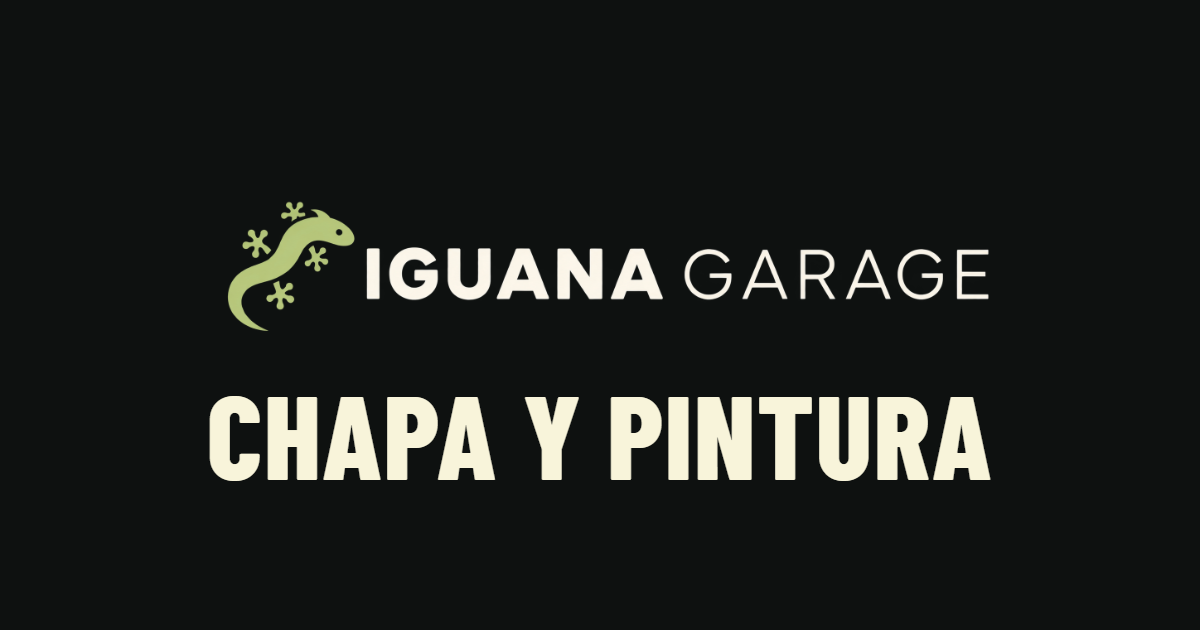
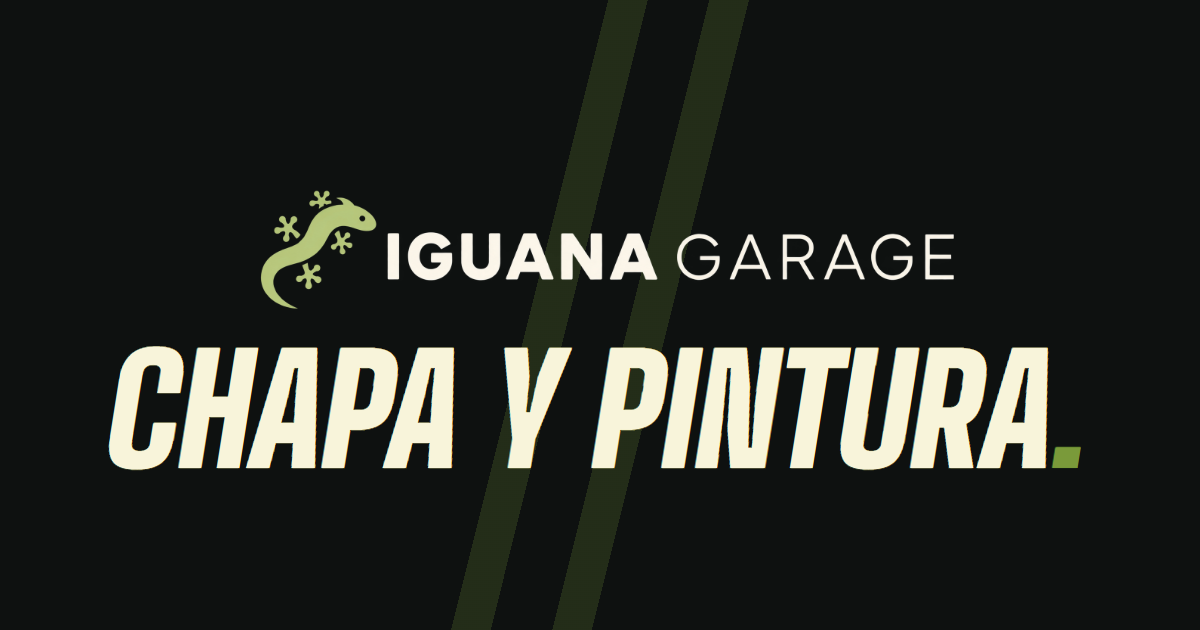
fix(home): abanico abierto entero con los nombres legibles, indicador de scroll e imagen para compartir con la tipografía nueva
Arco ancho compensado con cos() y cartas dimensionadas por altura; sin movimiento el abanico va en el flujo. Sustituye la pista de texto por un indicador sin texto (no aparece con movimiento reducido). Regenera la imagen Open Graph con Big Shoulders y actualiza DESIGN.md.

Changed region(s): [[0.0925, 0.0, 0.925, 1.0]]

diff --git a/src/app/portfolio.css b/src/app/portfolio.css
@@ -50,9 +50,6 @@ html:has(.portfolio-page) { background: #0e1110; scrollbar-color: #2a2d2b #0e111
 .pub-more { display: inline-flex; align-items: center; gap: 10px; min-height: 48px; padding: 0 24px; border: 0; color: var(--pub-bone); font: italic 600 16px var(--pub-text); background: color-mix(in srgb, var(--pub-metal) 88%, transparent); clip-path: polygon(10px 0, 100% 0, calc(100% - 10px) 100%, 0 100%); cursor: pointer; transition: background .2s; }
 .pub-more:hover { background: #424643; }
 .pub-more:focus-visible { outline: none; box-shadow: inset 0 0 0 2px var(--pub-bone); }
-/* Texto nuevo pendiente de aprobar */
-.pub-prov { text-decoration: underline dotted 1px; text-underline-offset: .18em; text-decoration-color: color-mix(in srgb, currentColor 50%, transparent); }
-.pub-prov-mark { margin-left: .4em; font: normal 500 11px / 1 var(--pub-text); vertical-align: super; color: var(--pub-muted); white-space: nowrap; }
 
 /* Cabecera: logo oficial (se recorta el margen transparente del PNG, nunca el arte). */
 .pub-header { position: absolute; z-index: 30; inset: 0 0 auto; display: flex; justify-content: space-between; align-items: center; gap: 12px; padding: 18px var(--side); }
@@ -63,7 +60,8 @@ html:has(.portfolio-page) { background: #0e1110; scrollbar-color: #2a2d2b #0e111
 
 /* ── Portada: titular centrado y abanico de cartas que nace del borde inferior ── */
 .pub-hero { position: relative; }
-.pub-hero-stage { position: relative; height: 100svh; min-height: 620px; overflow: hidden; display: grid; justify-items: center; align-content: start; padding: max(104px, 14svh) var(--side) 0; text-align: center; }
+/* Sin movimiento la portada crece con su contenido: el abanico va en el flujo, debajo del titular, y nunca lo solapa. */
+.pub-hero-stage { position: relative; min-height: max(100svh, 620px); overflow: hidden; display: grid; grid-template-rows: auto 1fr; justify-items: center; align-content: start; padding: max(104px, 14svh) var(--side) 0; text-align: center; }
 .pub-hero-stage:not(:has(.pub-fan)) { align-content: center; padding-top: 0; }
 .pub-livery { position: absolute; left: 50%; top: 0; bottom: 0; width: 150px; translate: -50% 0; transform: skewX(-14deg); transform-origin: 50% 100%; pointer-events: none; opacity: .2;
   background: linear-gradient(90deg, transparent 0 18%, var(--pub-green) 18% 36%, transparent 36% 64%, var(--pub-green) 64% 82%, transparent 82%); }
@@ -73,15 +71,22 @@ html:has(.portfolio-page) { background: #0e1110; scrollbar-color: #2a2d2b #0e111
 .pub-line { display: block; overflow: hidden; padding: .02em .06em .03em; margin-bottom: -.05em; white-space: nowrap; }
 .pub-line > span { display: block; }
 .pub-hero-row { display: grid; justify-items: center; gap: 12px; margin-top: 26px; }
-.pub-hint { color: var(--pub-muted); font-size: 15px; font-style: italic; visibility: hidden; }
-.pub-fan { --cw: 52vw; --swing: 62deg; --open: .18; position: absolute; left: 50%; bottom: 0; width: 0; height: 0; z-index: 1; }
-.pub-card { position: absolute; left: calc(var(--cw) / -2); bottom: 5svh; width: var(--cw); display: block; padding: 5px 5px 0; border-radius: 9px; background: var(--pub-bone); color: var(--pub-carbon);
-  transform-origin: 50% 210%; rotate: calc(var(--k) * (22deg + var(--open) * var(--swing))); box-shadow: 0 20px 36px -16px #000f; transition: translate .35s var(--ease-out); }
+/* Abanico: arco ancho (pivote a 3,2 anchos de carta bajo cada una) compensado con cos() para que todas las cartas
+   apoyen en la misma línea: al abrirse, las exteriores no se hunden y los nombres siguen a la vista. La caja reserva
+   la carta, la caída de su esquina al girar (≈ .36 anchos) y un margen. El ancho de carta sale de la altura disponible. */
+.pub-fan { --cw: min(62vw, 30svh); --spread: 80deg; --open: 1; --r: calc(var(--cw) * 3.2); position: relative; z-index: 1; align-self: end; width: calc(100% + 2 * var(--side)); height: calc(var(--cw) * 1.62 + 76px); margin-top: 28px; }
+.pub-card { --a: calc(var(--k) * (24deg + var(--open) * (var(--spread) - 24deg)));
+  position: absolute; left: calc(50% - var(--cw) / 2); bottom: calc(var(--cw) * .36 + 16px); width: var(--cw); display: block; padding: 5px 5px 0; border-radius: 9px; background: var(--pub-bone); color: var(--pub-carbon);
+  transform-origin: 50% calc(100% + var(--r)); rotate: var(--a); translate: 0 calc(var(--r) * (cos(var(--a)) - 1)); box-shadow: 0 20px 36px -16px #000f; transition: transform .35s var(--ease-out); }
+/* Indicador de scroll: pista fina inclinada como la librea con una cuenta verde que baja. Sin texto ni foco; solo
+   con movimiento (lo muestra [data-motion="live"]) y se desvanece en cuanto empieza a abrirse el abanico. */
+.pub-cue { display: none; position: absolute; z-index: 2; right: var(--side); top: 50%; width: 3px; height: 72px; margin-top: -36px; overflow: hidden; background: #f8f4da38; transform: skewX(-14deg); pointer-events: none; }
+.pub-cue > span { display: block; width: 100%; height: 22px; background: var(--pub-green); }
 .pub-card-photo { position: relative; display: block; aspect-ratio: 4 / 5; overflow: hidden; border-radius: 5px; background: var(--pub-metal); }
 .pub-card-label { display: block; padding: 7px 4px 26px; font: 800 17px / 1 var(--pub-display); font-variation-settings: "opsz" 72; text-transform: uppercase; text-align: left; white-space: nowrap; overflow: hidden; text-overflow: ellipsis; }
 .pub-card-label::before { content: ""; display: inline-block; width: 18px; height: 9px; margin-right: 7px; background: var(--pub-green); transform: skewX(-20deg); }
-.pub-card:focus-visible { outline-offset: 3px; translate: 0 -10%; z-index: 20; }
-@media (hover: hover) { .pub-card:hover { translate: 0 -10%; } }
+.pub-card:focus-visible { outline-offset: 3px; transform: translateY(-8%); z-index: 20; }
+@media (hover: hover) { .pub-card:hover { transform: translateY(-8%); } }
 
 /* ── Antes y Después: dos pantallas completas, una tras otra ── */
 .pub-ba-stage { position: relative; overflow: hidden; container-type: inline-size; }
@@ -142,16 +147,13 @@ body:has(dialog.pub-viewer[open]) .pub-fab { visibility: hidden; }
 
 @media (min-width: 700px) {
   .pub-hero h1 { font-size: 19vw; }
-  .pub-fan { --cw: 36vw; --swing: 92deg; }
-  .pub-card { bottom: 3svh; transform-origin: 50% 230%; }
+  .pub-fan { --cw: min(36vw, 26svh); --spread: 92deg; }
   .pub-wall, .pub-col { gap: 20px; }
 }
 @media (min-width: 1100px) {
   .pub-hero-stage { padding-top: 13svh; }
   .pub-hero h1 { font-size: min(15.5vw, 29svh); }
-  .pub-hint { font-size: 16px; }
-  .pub-fan { --cw: min(250px, 28vw); }
-  .pub-card { bottom: -4svh; }
+  .pub-fan { --cw: min(250px, 24svh); }
   .pub-card-label { font-size: 20px; padding-bottom: 30px; }
   .pub-ba-label { bottom: 140px; }
   .pub-work { grid-template-columns: minmax(0, 5fr) minmax(0, 7fr); gap: 7vw; align-items: start; }
@@ -176,11 +178,15 @@ body:has(dialog.pub-viewer[open]) .pub-fab { visibility: hidden; }
 @keyframes pub-livery { from { transform: skewX(-14deg) scaleY(0); } }
 
 /* ── Movimiento ligado al scroll ([data-motion="live"], lo pone HomeMotion) ── */
-.portfolio-page[data-motion="live"] .pub-hint { visibility: visible; }
 .portfolio-page[data-motion="live"] .pub-hero { height: 165svh; }
-.portfolio-page[data-motion="live"] .pub-hero-stage { position: sticky; top: 0; }
+.portfolio-page[data-motion="live"] .pub-hero-stage { position: sticky; top: 0; height: 100svh; min-height: 0; }
 .portfolio-page[data-motion="live"] .pub-hero-copy { transform: translateY(calc(var(--p, 0) * -9svh)) scale(calc(1 - var(--p, 0) * .2)); opacity: calc(1 - var(--p, 0) * .35); }
-.portfolio-page[data-motion="live"] .pub-fan { --open: var(--p, 0); transform: translateY(calc((1 - var(--p, 0)) * 7svh)); }
+.portfolio-page[data-motion="live"] .pub-cue { display: block; opacity: calc(1 - var(--p, 0) * 6); }
+.portfolio-page[data-motion="live"] .pub-cue > span { animation: pub-cue 1.8s cubic-bezier(.6, 0, .3, 1) .6s infinite; }
+@keyframes pub-cue { from { transform: translateY(-22px); } to { transform: translateY(72px); } }
+@media (prefers-reduced-motion: reduce) { .pub-cue { display: none !important; } }
+/* Con movimiento la portada mide una pantalla: el abanico se ancla abajo, sube desde fuera y se abre; abierto (--p = 1) cabe entero. */
+.portfolio-page[data-motion="live"] .pub-fan { position: absolute; left: 0; right: 0; bottom: 0; width: auto; margin: 0; --open: var(--p, 0); transform: translateY(calc((1 - var(--p, 0)) * 22svh)); }
 .portfolio-page[data-motion="live"] .pub-livery { transform: skewX(calc(-14deg - var(--p, 0) * 18deg)) scaleX(calc(1 + var(--p, 0) * 2.4)); }
 
 .portfolio-page[data-motion="live"] .pub-ba { height: 330svh; }

diff --git a/e2e/public-home.spec.ts b/e2e/public-home.spec.ts
@@ -42,6 +42,7 @@ test("Antes/Después: dos pantallas rotuladas con la pareja elegida y «Ver foto
 test("movimiento: la portada y el Antes/Después avanzan con el scroll y cada foto acaba destapada", async ({ page }) => {
   await page.goto("/");
   await expect(live(page)).toHaveCount(1);
+  await expect(page.locator(".pub-cue")).toBeVisible();
   const open = () => page.locator(".pub-hero").evaluate((hero) => Number(getComputedStyle(hero).getPropertyValue("--p") || 0));
   await page.evaluate(() => scrollTo({ top: innerHeight * 0.6, behavior: "instant" }));
   await expect.poll(open).toBeGreaterThan(0.3);
@@ -65,7 +66,7 @@ test.describe("con movimiento reducido", () => {
     await expect(live(page)).toHaveCount(0);
     const running = await page.evaluate(() => document.getAnimations().filter((animation) => animation.playState === "running").length);
     expect(running).toBe(0);
-    await expect(page.locator(".pub-hint")).toBeHidden(); // la pista del abanico solo tiene sentido con movimiento
+    await expect(page.locator(".pub-cue")).toBeHidden(); // el indicador de scroll solo existe con movimiento
     const pair = page.locator(".pub-ba-slide");
     if (await pair.count()) {
       const [before, after] = await pair.evaluateAll((slides) => slides.map((slide) => slide.getBoundingClientRect().top + scrollY));

diff --git a/src/app/page.tsx b/src/app/page.tsx
@@ -11,7 +11,6 @@ import { BeforeAfter } from "@/features/portfolio/before-after";
 import { HeroFan } from "@/features/portfolio/fan";
 import { FloatingContact } from "@/features/portfolio/floating-contact";
 import { HomeMotion } from "@/features/portfolio/home-motion";
-import { Provisional } from "@/features/portfolio/provisional";
 import logo from "../../assets/brand/iguana-garage-logo-horizontal.png";
 import "./portfolio.css";
 
@@ -53,11 +52,9 @@ export default async function Home({ searchParams }: { searchParams: Promise<{ p
           <span className="pub-livery" aria-hidden="true" />
           <div className="pub-hero-copy" data-fab-hide="">
             <h1 id="hero-title"><span className="pub-line"><span>Chapa y</span></span> <span className="pub-line"><span>pintura<span className="pub-dot">.</span></span></span></h1>
-            <div className="pub-hero-row">
-              <ContactLink contact={contact} />
-              {jobs.length > 0 && <p className="pub-hint"><Provisional>Baja y se abre el abanico.</Provisional></p>}
-            </div>
+            <div className="pub-hero-row"><ContactLink contact={contact} /></div>
           </div>
+          {jobs.length > 0 && <span className="pub-cue" aria-hidden="true"><span /></span>}
           <HeroFan jobs={jobs} />
         </div>
       </section>

diff --git a/src/features/portfolio/home-sections.test.tsx b/src/features/portfolio/home-sections.test.tsx
@@ -5,7 +5,6 @@ import type { PublicJob } from "./contract";
 import { BeforeAfter } from "./before-after";
 import { HeroFan } from "./fan";
 import { FloatingContact } from "./floating-contact";
-import { Provisional } from "./provisional";
 
 const id = (n: number, k = 0) => `${String(n).repeat(8)}-${String(k).repeat(4)}-4111-8111-111111111111`;
 const job = (n: number, photos: number): PublicJob => ({ id: id(n), name: `Trabajo ${n}`, job_date: "2026-01-15", description: null,
@@ -54,8 +53,4 @@ describe("botón flotante de WhatsApp", () => {
     expect(markup).toContain('aria-label="Escríbenos por WhatsApp (abre WhatsApp en otra pestaña)"');
     expect(markup).toContain('<svg'); expect(markup).toContain('aria-hidden="true"');
   });
-});
-
-it("los textos pendientes de aprobar se marcan como provisionales", () => {
-  expect(html(createElement(Provisional, null, "Texto nuevo"))).toBe('<span class="pub-prov">Texto nuevo<span class="pub-prov-mark" aria-hidden="true">[texto provisional]</span></span>');
 });

diff --git a/DESIGN.md b/DESIGN.md
@@ -29,7 +29,7 @@ Home «de competición», elegida por el propietario con un test de gusto: sensa
 
 - **Marca:** assets oficiales y los cuatro colores base (más derivados: Iguana claro `#8FB04A` para hover y un Carbon más profundo `#080A09` bajo las fotos); sin azul ni tema claro.
 - **Fotografía real:** solo las fotos publicadas del contrato público. Son fotos de móvil hechas en el taller (casi todas verticales, calidad y encuadre variables). Nada de stock, IA ni imágenes de relleno. Se recortan con `cover` y punto focal y se igualan con un etalonaje común (`saturate(.8) contrast(1.08) brightness(.96)`); el visor las muestra tal cual.
-- **Datos y copy:** solo existen nombre, fecha, descripción opcional y fotos (con punto focal) por trabajo. No inventar categorías, códigos, teléfonos, redes, presupuestos, servicios ni promesas. Ningún dato ni nombre va fijo en el código: se corrigen desde `/app`. Los textos nuevos pendientes de aprobación se marcan con `Provisional` («[texto provisional]»).
+- **Datos y copy:** solo existen nombre, fecha, descripción opcional y fotos (con punto focal) por trabajo. No inventar categorías, códigos, teléfonos, redes, presupuestos, servicios ni promesas. Ningún dato ni nombre va fijo en el código: se corrigen desde `/app`.
 - **Funcionalidad pública** de [PRODUCT.md](PRODUCT.md): trabajos paginados, transformación Antes/Después opcional, visor, contacto por WhatsApp con estado pendiente, estados de carga/vacío/error, sin login visible ni PWA.
 
 ### Tipografía
@@ -45,7 +45,8 @@ Home «de competición», elegida por el propietario con un test de gusto: sensa
 ### Estructura y orden
 
 1. **Cabecera:** logo oficial. Sin número de WhatsApp válido, además, «Contacto ↗», que lleva a la sección de contacto.
-2. **Portada:** titular centrado «Chapa y pintura.» (punto en verde), CTA de WhatsApp y una pista provisional. Debajo, un **abanico de cartas** que nace del borde inferior: una carta por trabajo de la página (su primera foto visible, con el nombre en una banda hueso como una carta de colores); si hay menos de siete trabajos, completan el abanico otras fotos de los mismos trabajos, decorativas (`aria-hidden`, sin foco). Cada carta principal es un enlace a la banda de su trabajo. Sin fotos no hay abanico y el titular se centra.
+2. **Portada:** titular centrado «Chapa y pintura.» (punto en verde) y CTA de WhatsApp, sin más texto. Con movimiento, un **indicador de scroll** sin texto a la derecha, a media altura: pista fina de 3 × 72 px inclinada como la librea, con una cuenta verde que baja; decorativo (`aria-hidden`), no tapa nada, se desvanece al empezar a abrirse el abanico y no existe con «reducir movimiento». Debajo, un **abanico de cartas** que nace del borde inferior: una carta por trabajo de la página (su primera foto visible, con el nombre en una banda hueso como una carta de colores); si hay menos de siete trabajos, completan el abanico otras fotos de los mismos trabajos, decorativas (`aria-hidden`, sin foco). Cada carta principal es un enlace a la banda de su trabajo. Sin fotos no hay abanico y el titular se centra.
+   - **Geometría del abanico:** las cartas giran sobre un arco ancho (pivote a 3,2 anchos de carta bajo cada una) y cada una sube lo que su giro la haría hundirse (`cos()`), así que todas apoyan en la misma línea y, abierto, se ve entero con los nombres legibles dentro de la portada, sin solaparse con el titular ni con la sección siguiente. El ancho de carta sale de la altura de pantalla: `min(62vw, 30svh)` en móvil, `min(36vw, 26svh)` desde 700 y `min(250px, 24svh)` desde 1100; apertura de 80° (92° desde 700). Comprobado en 1920×1080, 1440×900, 1366×768, 1280×720, 1024×768, 820×1180, 768×1024, 412×915, 390×844 y 375×667.
 3. **Antes y Después** (solo con la pareja elegida en `/app` → Portada y solo en la página 1): dos pantallas completas, una tras otra, con «ANTES» en hueso y «DESPUÉS» en verde, el nombre y la fecha del trabajo y «Ver fotos» (visor abierto en el Después). Sin pareja válida no hay sección.
 4. **«Trabajos realizados»:** titular centrado y una banda por trabajo (ver Mosaico).
 5. **Contacto** («¿Hablamos de tu coche?», «Cuéntanos qué necesitas.» y CTA, o el aviso de contacto pendiente) y pie con logo, «Chapa y pintura.» y «Volver arriba».
@@ -67,7 +68,7 @@ Contenedor máximo de 1760 px. Márgenes laterales de 24 px (móvil), 48 px (≥
 
 ### Imagen para compartir
 
-Imagen Open Graph **estática y solo de marca**: logo oficial completo, a su proporción, sobre Carbon, más «CHAPA Y PINTURA» en Barlow Condensed 800; sin fotos de trabajos. Es `public/share/iguana-garage-og.png` (1200×630), generada a mano con `scripts/prepare-og-image.mjs` (no se ejecuta en build ni en peticiones) y enlazada desde los metadatos de `/` (`og:image`, `twitter:image` y `twitter:card=summary_large_image`). La URL es absoluta: `metadataBase` usa `RENDER_EXTERNAL_URL` o, si falta, la URL de producción. No se ha regenerado con la tipografía nueva.
+Imagen Open Graph **estática y solo de marca**: logo oficial completo, a su proporción, sobre Carbon, más «CHAPA Y PINTURA.» en Big Shoulders 900 inclinada como en la home (punto en verde) y las dos franjas verdes de la librea detrás; sin fotos de trabajos. Es `public/share/iguana-garage-og.png` (1200×630), generada a mano con `scripts/prepare-og-image.mjs` (no se ejecuta en build ni en peticiones) y enlazada desde los metadatos de `/` (`og:image`, `twitter:image` y `twitter:card=summary_large_image`). La URL es absoluta: `metadataBase` usa `RENDER_EXTERNAL_URL` o, si falta, la URL de producción.
 
 ### Movimiento
 
@@ -75,12 +76,12 @@ Intenso pero sin bucles: solo responde a la carga y al scroll. Todo lo que se mu
 
 - **Al cargar** (CSS, una vez): las dos líneas del titular suben desde su línea (1,1 s), la librea crece, la fila del CTA funde y las cartas del abanico se reparten desde abajo con rebote, escalonadas 70 ms.
 - **Ligado al scroll** (`HomeMotion`, `motion.ts`): solo con JavaScript y sin «reducir movimiento», `HomeMotion` marca la página con `data-motion="live"` y escribe variables CSS. Cada fotograma lee todas las posiciones y después escribe, y solo lo que cambia.
-  - **Portada** (`--p`, con inercia): queda fijada 165svh (185svh desde 700) mientras el abanico se abre en semicírculo y sube, y el titular se encoge y se atenúa.
+  - **Portada** (`--p`, con inercia): queda fijada 165svh (185svh desde 700) mientras el abanico, anclado abajo, sube desde fuera de la pantalla y se abre, y el titular se encoge y se atenúa. Abierto del todo cabe entero en la pantalla.
   - **Antes y Después** (`--x`, con inercia): la sección se fija 330svh; el Antes se queda quieto, la pista lo lleva en horizontal hasta el Después con unas rayas verdes de chicane entre ambos y el Después se queda quieto. Las fotos y los rótulos se desplazan a distinta velocidad. Un indicador «Antes / Después» se rellena de verde.
   - **Fotos del mosaico** (`--t`): una tapa Carbon se retira hacia abajo mientras la foto sube por la pantalla y la foto pasa de 1,25 a 1.
   - **Columnas** (`--q`): se desplazan en sentidos opuestos (paralaje de ±45 px; ±90 px desde 1100).
   - **Titulares** de «Trabajos realizados» y del contacto (`--t`): crecen al entrar, sin atenuarse (el contraste se mantiene siempre).
-- **Sin JavaScript o con `prefers-reduced-motion: reduce`:** nada se fija ni se anima. La portada mide una pantalla con el abanico entreabierto (sin la pista, que solo tiene sentido con movimiento), el Antes y el Después son dos pantallas apiladas, todas las fotos se ven desde el principio y el botón flotante aparece sin transición.
+- **Sin JavaScript o con `prefers-reduced-motion: reduce`:** nada se fija ni se anima. La portada crece con su contenido: el abanico, abierto, va en el flujo debajo del titular (nunca lo solapa) y no hay indicador de scroll; el Antes y el Después son dos pantallas apiladas, todas las fotos se ven desde el principio y el botón flotante aparece sin transición.
 - **Sin saltos de maquetación:** cada línea del titular va en una sola fila con interlineado fijo (el cambio de fuente no mueve nada), las cartas y las fotos reservan su proporción y las fotos fuera de pantalla cargan en diferido.
 
 ### Visores de fotos (público y privado)
